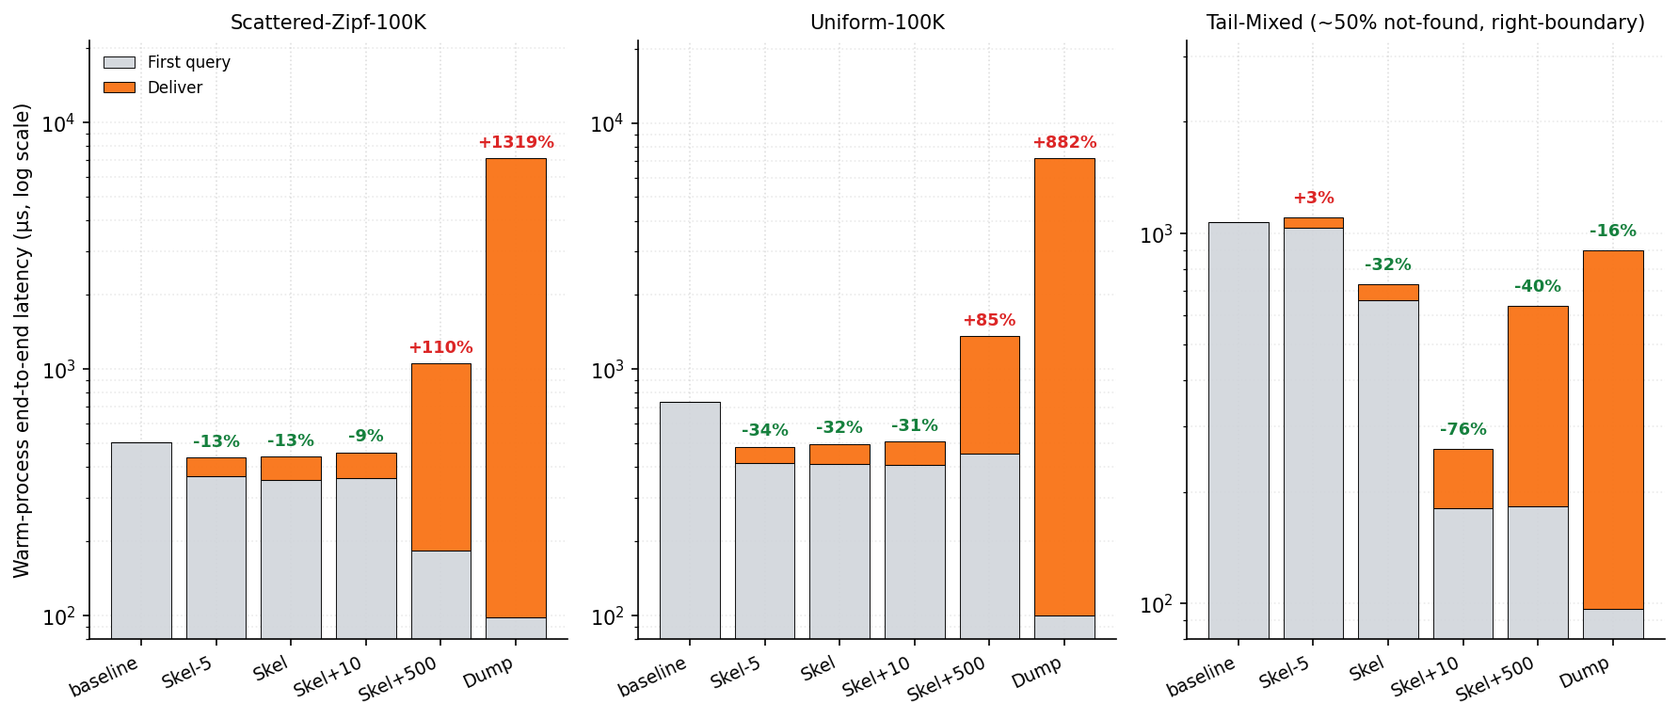
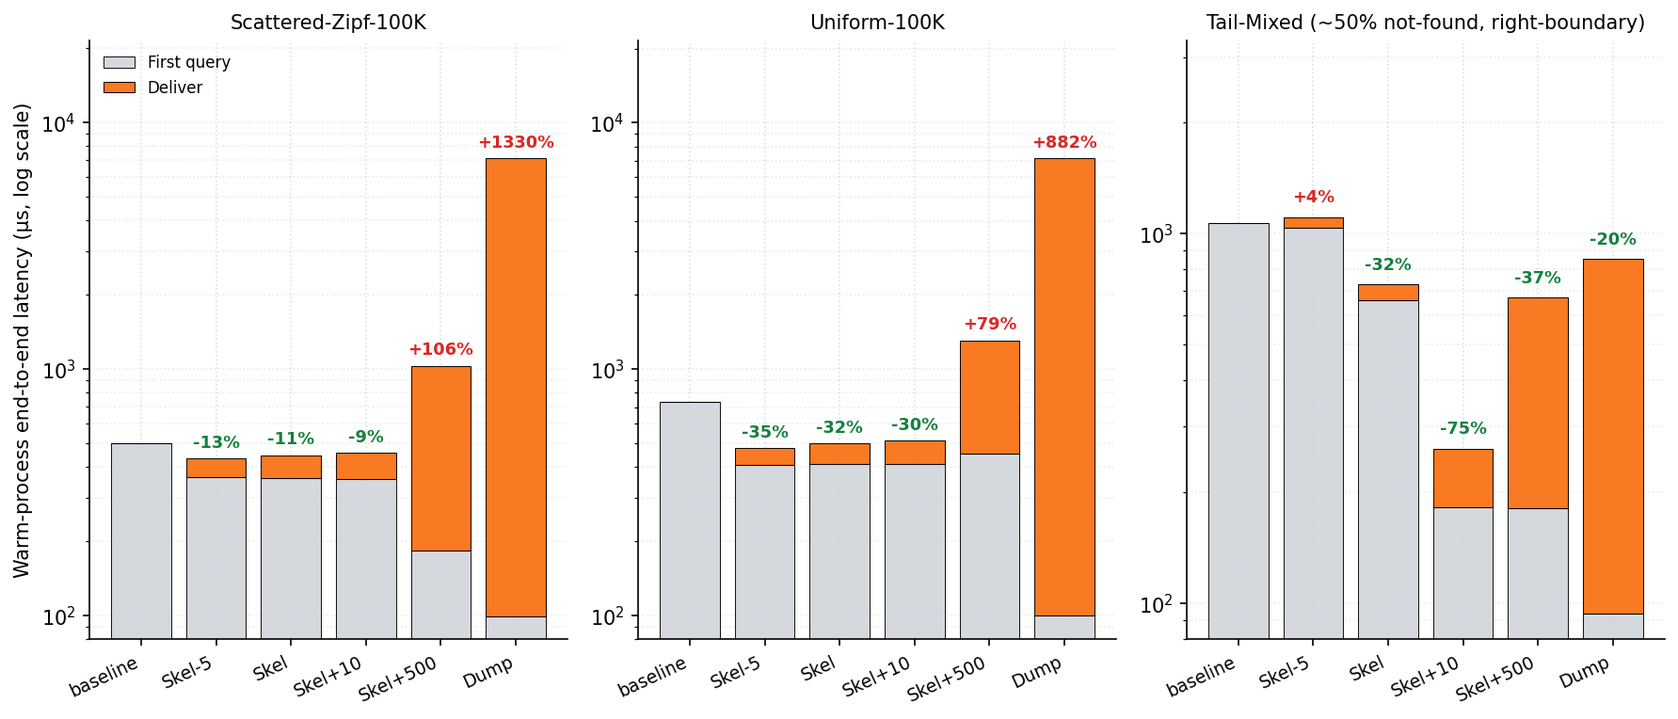
Paper: repoint the four result tables to the unified_v4 batch
Tables 5 (tab:e2e-ac), 6 (tab:ablation), 7 (tab:competitive) and 8
(tab:seeds) previously drew their cells from five separate batches across
two code versions, so their columns were not mutually comparable. All four
now read results/unified_v4, a single 10-seed run of one code version that
measures every arm the paper reports, including 2e_K10 and 2e_K500 under
the corrected (-count, pageno) tie-break.

Every changed cell was recomputed from unified_v4 keyed on
(workload, strategy, arm, metric) and matches what is now printed.
Notable movements:

  ablation Skel        first-query -44%, e2e -37%
  ablation leaf_freq   now a tie (CI [-14.3, +6.8] crosses zero)
  competitive Skel+10  -38% / -26% / -55%
  seeds Tail-Mixed     Skel+10 cross-seed -75%, Skel cross-seed -37%

Section 6.3 and 6.4 prose follows the tables. The Tail-Mixed Skel+10
bimodality is reproduced in the new batch: 6 seeds average -71%, 4 seeds
average -32%, overall -55%.

Figures 13 and 14 are regenerated from the same batch, so the stacked
absolute microseconds in Figure 14 now share a machine state with Table 5's
absolute columns. Under unified_v4 only one cell still splits between the
drawn bar height and the printed label (Scattered-Zipf-100K Skel-5, -14
against -13), down from three.

Three things deliberately stay on their own batches and continue to name
them in the text: the Section 6 layout comparison needs vacuum/ta,
layers_92, and the Tail-Hit control.
[…]

diff --git a/main.tex b/main.tex
@@ -83,7 +83,7 @@ Wang et al. \cite{Wang2018} measured over 50,000 function instances across AWS L
 
 Container-level cold-start optimization has advanced rapidly. The histogram-based prewarming policy of Shahrad et al. \cite{Shahrad2020} raises the fraction of invocations that land on a warm container, and Catalyzer \cite{Du2020} reaches sub-millisecond function startup through checkpoint/restore and the sfork primitive. Neither technique restores the OS page cache: a checkpoint does not carry file-backed pages, and prewarming keeps the runtime alive while memory is reclaimed. As these techniques succeed, the cold-start penalty that remains sits in the data path.
 
-That penalty is not small. On our reference database (Section~\ref{sec:refdb}), the first query after a cold OS page cache takes 503 to 1072 µs depending on the workload, against 1 to 3 µs once the cache is warm (Section~\ref{sec:workloads}), a slowdown of two to three orders of magnitude. The storage-layer penalty is therefore in the same sub-millisecond regime as container startup itself, so even an optimally warmed container leaves the data path as the dominant remaining cost.
+That penalty is not small. On our reference database (Section~\ref{sec:refdb}), the first query after a cold OS page cache takes 500 to 1067 µs depending on the workload, against 1 to 3 µs once the cache is warm (Section~\ref{sec:workloads}), a slowdown of two to three orders of magnitude. The storage-layer penalty is therefore in the same sub-millisecond regime as container startup itself, so even an optimally warmed container leaves the data path as the dominant remaining cost.
 
 The cost arises from a dependent fault chain. Each query walks the B+tree from root to leaf, and each missing page must be fetched before the next page address is known. On local NVMe each link costs microseconds. When SQLite is served from object storage over HTTP range requests ~\cite{SqliteWebVfs, Turbolite}, each link becomes a multi-millisecond GET and the same chain is amplified by orders of magnitude. This paper quantifies the chain at the local-storage tier and leaves the remote tier to future work (Section~\ref{sec:conclusion}).
 
@@ -164,7 +164,7 @@ Standard B+tree fanout makes interior pages 0.35\% of the file, yet every query 
 
 \subsection{Cold-Start Mechanics}\label{sec:coldstart-mechanics}
 
-With an empty OS page cache, the first query must fetch every page on its root-to-leaf path from disk, one dependent fault at a time, because each child pointer is unknown until its parent page is resident. On commodity NVMe each fault costs 5 to 100 µs, and the chain sums to the cold first-query latencies of 503 to 1072 µs reported in Section~\ref{sec:workloads}, two to three orders of magnitude above the warm case. The interior pages on that chain are few and known in advance (Section~\ref{sec:btree}), so a prefetch that makes them resident before the first query removes the interior faults. Whether this improves the end-to-end cold start depends on which pages are selected (Section~\ref{sec:strategy}) and on what the prefetch itself costs (Section~\ref{sec:methodology}).
+With an empty OS page cache, the first query must fetch every page on its root-to-leaf path from disk, one dependent fault at a time, because each child pointer is unknown until its parent page is resident. On commodity NVMe each fault costs 5 to 100 µs, and the chain sums to the cold first-query latencies of 500 to 1067 µs reported in Section~\ref{sec:workloads}, two to three orders of magnitude above the warm case. The interior pages on that chain are few and known in advance (Section~\ref{sec:btree}), so a prefetch that makes them resident before the first query removes the interior faults. Whether this improves the end-to-end cold start depends on which pages are selected (Section~\ref{sec:strategy}) and on what the prefetch itself costs (Section~\ref{sec:methodology}).
 
 \subsection{The Warm-Container, Cold-Data Measurement Model}\label{sec:measurement-model}
 
@@ -378,7 +378,7 @@ Three auxiliary workloads, all on \texttt{Default}, support specific controls. T
 
 The OpenWhisk deployment (Section~\ref{sec:setup-openwhisk}) additionally runs three native YCSB 0.17.0 traces over the full 600,000-key space: Scattered-Zipf-600K, Uniform-600K, and Hotspot-1\%-scattered, a workload-C read mix with Zipfian, uniform, and 1\% hotspot request distributions, the last with hot keys hashed across the physical key space. All three are pure-hit. Scattered-Zipf-600K and Uniform-600K are the external-validity counterparts of the controlled Scattered-Zipf-100K and Uniform-100K. Hotspot-1\%-scattered is a native hotspot regime with no controlled counterpart, and is not equated with Tail-Mixed. These three are used only in Section~\ref{sec:eval-portability}, which also carries Tail-Mixed and Tail-Hit across both platforms.
 
-Under \texttt{Default}, the median cold first-query latencies are 503~\textmu s for Scattered-Zipf-100K, 733~\textmu s for Uniform-100K, and 1072~\textmu s for Tail-Mixed, against 1 to 3 µs with a warm cache. These cold values are the denominators for every improvement reported in Section~\ref{sec:evaluation}. The workload traces are published with the artifact, checksummed, together with the generator that drives the 10-seed analysis of Section~\ref{sec:stats}.
+Under \texttt{Default}, the median cold first-query latencies are 500~\textmu s for Scattered-Zipf-100K, 732~\textmu s for Uniform-100K, and 1067~\textmu s for Tail-Mixed, against 1 to 3 µs with a warm cache. These cold values are the denominators for every improvement reported in Section~\ref{sec:evaluation}. The workload traces are published with the artifact, checksummed, together with the generator that drives the 10-seed analysis of Section~\ref{sec:stats}.
 
 \subsection{OpenWhisk Portability Deployment}\label{sec:setup-openwhisk}
 
@@ -392,11 +392,11 @@ Our evaluation answers three questions. \textbf{RQ1}: does a lower first-query l
 
 \subsection{First-Query Gains and Workload-Dependent Ceilings}\label{sec:eval-fq}
 
-We first report first-query latency alone, before charging preprocessing in Section~\ref{sec:eval-tradeoff}. Against the cold baselines of Section~\ref{sec:workloads} (503, 733, and 1072 \textmu s), Dump reaches the lowest first-query latency on every workload: 98 \textmu s on Scattered-Zipf-100K ($-80\%$), 100 \textmu s on Uniform-100K ($-86\%$), and 96 \textmu s on Tail-Mixed ($-91\%$). Judged by this metric alone, Dump wins outright. The targeted strategies reach $-27\%$ to $-83\%$, with a ceiling that depends on the workload (Table~\ref{tab:ceiling} and Figure~\ref{fig:firstq-bars}).
+We first report first-query latency alone, before charging preprocessing in Section~\ref{sec:eval-tradeoff}. Against the cold baselines of Section~\ref{sec:workloads} (500, 732, and 1067 \textmu s), Dump reaches the lowest first-query latency on every workload: 99 \textmu s on Scattered-Zipf-100K ($-80\%$), 100 \textmu s on Uniform-100K ($-86\%$), and 94 \textmu s on Tail-Mixed ($-91\%$). Judged by this metric alone, Dump wins outright. The targeted strategies reach $-27\%$ to $-83\%$, with a ceiling that depends on the workload (Table~\ref{tab:ceiling} and Figure~\ref{fig:firstq-bars}).
 
-The ceiling has a structural explanation. At first-query time every page is cold, and interior prefetching removes the interior faults but leaves the first leaf fault. On Scattered-Zipf-100K the interior skeleton alone captures most of the benefit ($-27\%$ to $-29\%$), and adding leaves yields diminishing returns: \texttt{Skel+500} reaches $-64\%$ and Dump $-80\%$. On Uniform-100K there is no hot set, every query hits a cold leaf, and interior-only prefetching is capped at $-44\%$, with only the full dump going further, to $-86\%$. On Tail-Mixed the interior-only ceiling is $-38\%$, but \texttt{Skel+10} reaches $-83\%$ because about half the queries are not-found probes that descend to the same rightmost leaf, which \texttt{Skel+10} includes. This is a property of the key range rather than of tail reads in general, as Section~\ref{sec:eval-attribution} confirms with a pure-hit control.
+The ceiling has a structural explanation. At first-query time every page is cold, and interior prefetching removes the interior faults but leaves the first leaf fault. On Scattered-Zipf-100K the interior skeleton alone captures most of the benefit ($-27\%$ to $-28\%$), and adding leaves yields diminishing returns: \texttt{Skel+500} reaches $-64\%$ and Dump $-80\%$. On Uniform-100K there is no hot set, every query hits a cold leaf, and interior-only prefetching is capped at $-44\%$, with only the full dump going further, to $-86\%$. On Tail-Mixed the interior-only ceiling is $-38\%$, but \texttt{Skel+10} reaches $-83\%$ because about half the queries are not-found probes that descend to the same rightmost leaf, which \texttt{Skel+10} includes. This is a property of the key range rather than of tail reads in general, as Section~\ref{sec:eval-attribution} confirms with a pure-hit control.
 
-The offset-ordered structural strategy \texttt{Skel-N} depends on both workload and layout. On Scattered-Zipf-100K and Uniform-100K the first five interior pages already reach the plateau ($-27\%$ to $-29\%$ and $-44\%$), and further interiors add nothing. Tail-Mixed needs nearly all 92, because the interiors covering its high-key range sit mid-file and offset-order selection reaches them only when N spans the whole set. A single page ($N = 1$) is counter-productive on Scattered-Zipf-100K, where \texttt{madvise} dispatch overhead exceeds the coverage gain and first-query latency is $31\%$ worse than the same-batch baseline, and only marginally helpful on the other two workloads. The shape of the N-sweep is consistent across the hotspot variants in our artifact.
+The offset-ordered structural strategy \texttt{Skel-N} depends on both workload and layout. On Scattered-Zipf-100K and Uniform-100K the first five interior pages already reach the plateau ($-27\%$ to $-28\%$ and $-44\%$), and further interiors add nothing. Tail-Mixed needs nearly all 92, because the interiors covering its high-key range sit mid-file and offset-order selection reaches them only when N spans the whole set. A single page ($N = 1$) is counter-productive on Scattered-Zipf-100K, where \texttt{madvise} dispatch overhead exceeds the coverage gain and first-query latency is $31\%$ worse than the same-batch baseline, and only marginally helpful on the other two workloads. The shape of the N-sweep is consistent across the hotspot variants in our artifact.
 
 Figure~\ref{fig:firstq-bars} plots each strategy's paired first-query reduction against its same-batch baseline. \texttt{Dump} leads on every workload, and \texttt{Skel+10} on Tail-Mixed is the largest targeted reduction. Section~\ref{sec:eval-tradeoff} revisits this ranking with end-to-end accounting.
 
@@ -411,7 +411,7 @@ Figure~\ref{fig:firstq-bars} plots each strategy's paired first-query reduction 
 \toprule
 \textbf{Workload} & \textbf{Ceiling} & \textbf{With hot leaves / full dump} \\
 \midrule
-Scattered-Zipf-100K & $-29\%$ & \texttt{Skel+500}: $-64\%$, \texttt{Dump}: $-80\%$ \\
+Scattered-Zipf-100K & $-28\%$ & \texttt{Skel+500}: $-64\%$, \texttt{Dump}: $-80\%$ \\
 Uniform-100K        & $-44\%$ & \texttt{Dump}: $-86\%$ \\
 Tail-Mixed          & $-38\%$ & \texttt{Skel+10}: $-83\%$, \texttt{Dump}: $-91\%$ \\
 \bottomrule
@@ -430,11 +430,11 @@ Tail-Mixed          & $-38\%$ & \texttt{Skel+10}: $-83\%$, \texttt{Dump}: $-91\%
 
 First-query latency excludes the cost of the prefetch itself. Table~\ref{tab:overhead} decomposes that cost per strategy. The cold-open cost $t_\text{open}$ is a per-layout constant, about 179 \textmu s in the main batch and independent of strategy and workload. Because the two deployment models of Section ~\ref{sec:cost-model} differ only by $t_{\text{open}}$, it shifts both models' zero points equally ($e2e_{\text{ext}} - (\text{baseline} + t_{\text{open}}) = e2e_{\text{warm}} - \text{baseline}$) and never decides a within-model comparison. The delivery cost $t_\text{deliver}$ scales with the prefetch set: 68 to 124 \textmu s for \texttt{Skel-5}, \texttt{Skel}, and \texttt{Skel+10}, 0.5 to 0.85 ms for \texttt{Skel+500}, and 0.8 to 7 ms for \texttt{Dump}, which pays about 7 ms on the two 100K workloads and 0.80 ms on Tail-Mixed.
 
-Charging $t_\text{deliver}$ reverses the ranking of Section~\ref{sec:eval-fq}. Table~\ref{tab:e2e-ac} gives end-to-end latency under both models for the main batch, and Figure~\ref{fig:e2e-stacked} stacks first query and delivery for the warm-process model. \texttt{Dump}, the first-query winner, is the end-to-end loser on the broad workloads: on Scattered-Zipf-100K its 7 ms delivery dwarfs its 405 \textmu s first-query gain, regressing the warm-process cold start by $+1319\%$ (7140 versus 503 \textmu s) and the external-warmer cold start by $+1355\%$, and on Uniform-100K it regresses by $+882\%$. Tail-Mixed, whose working set is only 1.8 MB, is the sole exception at $-16\%$ (cross-seed $-7\%$, robust). Over-provisioning leaves fails the same way in miniature: \texttt{Skel+500} regresses by $+110\%$ and $+85\%$ on the two broad workloads.
+Charging $t_\text{deliver}$ reverses the ranking of Section~\ref{sec:eval-fq}. Table~\ref{tab:e2e-ac} gives end-to-end latency under both models for the main batch, and Figure~\ref{fig:e2e-stacked} stacks first query and delivery for the warm-process model. \texttt{Dump}, the first-query winner, is the end-to-end loser on the broad workloads: on Scattered-Zipf-100K its 7 ms delivery dwarfs its 401 \textmu s first-query gain, regressing the warm-process cold start by $+1330\%$ (7148 versus 500 \textmu s) and the external-warmer cold start by $+1366\%$, and on Uniform-100K it regresses by $+882\%$. Tail-Mixed, whose working set is only 1.8 MB, is the sole exception at $-20\%$ (cross-seed $-10\%$, robust). Over-provisioning leaves fails the same way in miniature: \texttt{Skel+500} regresses by $+106\%$ and $+79\%$ on the two broad workloads.
 
-The frugal strategies \texttt{Skel} and \texttt{Skel+10} improve warm-process latency on all three workloads. The robust general result is \texttt{Skel} at roughly $25\%$ to $30\%$ across the pure-hit workloads (cross-seed, Section~\ref{sec:eval-robustness}). Tail-Mixed \texttt{Skel+10} shows a larger single-instantiation $-76\%$ (1072 to 260 \textmu s), but Section~\ref{sec:eval-attribution} shows this is driven by the not-found rightmost-leaf concentration and is bimodal across seeds with a mean of $-55\%$. The single-instantiation wins of \texttt{Skel-5} do not survive cross-seed validation: tie on Scattered-Zipf-100K, directional toward regression on Uniform-100K, and robustly worse on Tail-Mixed (Table~\ref{tab:e2e-ac}).
+The frugal strategies \texttt{Skel} and \texttt{Skel+10} improve warm-process latency on all three workloads. The robust general result is \texttt{Skel} at roughly $25\%$ to $30\%$ across the pure-hit workloads (cross-seed, Section~\ref{sec:eval-robustness}). Tail-Mixed \texttt{Skel+10} shows a larger single-instantiation $-75\%$ (1067 to 262 \textmu s), but Section~\ref{sec:eval-attribution} shows this is driven by the not-found rightmost-leaf concentration and is bimodal across seeds with a mean of $-55\%$. The single-instantiation wins of \texttt{Skel-5} do not survive cross-seed validation: tie on Scattered-Zipf-100K, directional toward regression on Uniform-100K, and robustly worse on Tail-Mixed (Table~\ref{tab:e2e-ac}).
 
-The deployment model decides whether prefetching pays at all. In the external-warmer model the cold open consumes the benefit on the fast workloads (\texttt{Skel} on Scattered-Zipf-100K: $+23\%$), whereas in the warm-process model the same strategies win consistently. Three conclusions follow. Minimizing first-query latency does not guarantee a faster cold start, because delivery cost can dominate the critical path. The deployment model determines the verdict, and the warm-process model we advocate is where targeted prefetch wins. The open cost is a deployment constant rather than a prefetch tax: it shifts the zero point between models but never their internal ranking.
+The deployment model decides whether prefetching pays at all. In the external-warmer model the cold open consumes the benefit on the fast workloads (\texttt{Skel} on Scattered-Zipf-100K: $+25\%$), whereas in the warm-process model the same strategies win consistently. Three conclusions follow. Minimizing first-query latency does not guarantee a faster cold start, because delivery cost can dominate the critical path. The deployment model determines the verdict, and the warm-process model we advocate is where targeted prefetch wins. The open cost is a deployment constant rather than a prefetch tax: it shifts the zero point between models but never their internal ranking.
 
 \begin{table}[htbp]
 \centering
@@ -462,20 +462,20 @@ The deployment model decides whether prefetching pays at all. In the external-wa
 \newcolumntype{L}[1]{>{\hsize=#1\hsize\raggedright\arraybackslash}X}
 \newcolumntype{C}[1]{>{\hsize=#1\hsize\centering\arraybackslash}X}
 \newcolumntype{R}[1]{>{\hsize=#1\hsize\raggedleft\arraybackslash}X}
-\caption{End-to-end latency under the external-warmer (\texttt{e2e\_ext}) and warm-process (\texttt{e2e\_warm}) models, main batch, \texttt{Default} layout, asynchronous delivery. Every value is from one machine state under the corrected tie-break. \texttt{Skel+10} and \texttt{Skel+500} are plotted in Figure~\ref{fig:e2e-stacked}. Percentages are single-instantiation paired improvements, and verdicts are the cross-seed classifications of Section~\ref{sec:eval-robustness}.}
+\caption{End-to-end latency under the external-warmer (\texttt{e2e\_ext}) and warm-process (\texttt{e2e\_warm}) models, main batch, \texttt{Default} layout, asynchronous delivery. Every value in this table and in Tables~\ref{tab:ablation},~\ref{tab:competitive} and~\ref{tab:seeds} comes from one 10-seed batch measured in a single contiguous window under the corrected tie-break. The $\text{e2e}_{\text{ext}}$ column adds a cold open whose median varies by about 30~\textmu s with the prefetched set and across batches, so its absolute values carry that uncontrolled term. \texttt{Skel+10} and \texttt{Skel+500} are plotted in Figure~\ref{fig:e2e-stacked}. Percentages are single-instantiation paired improvements, and verdicts are the cross-seed classifications of Section~\ref{sec:eval-robustness}.}
 \begin{tabularx}{\textwidth}{L{0.5} *{4}{C{0.65}} L{2.5}}
 \toprule
 \multirow{2}{*}{\textbf{Strategy}} & 
-\multicolumn{2}{c}{\shortstack{\textbf{Scattered-Zipf-100K}\\(baseline 503\,\textmu s)}} & 
-\multicolumn{2}{c}{\shortstack{\textbf{Tail-Mixed}\\(baseline 1072\,\textmu s)}} & 
+\multicolumn{2}{c}{\shortstack{\textbf{Scattered-Zipf-100K}\\(baseline 500\,\textmu s)}} & 
+\multicolumn{2}{c}{\shortstack{\textbf{Tail-Mixed}\\(baseline 1067\,\textmu s)}} & 
 \multirow{2}{*}{\textbf{Cross-seed verdict}} \\
 \cmidrule(lr){2-3} \cmidrule(lr){4-5}
 & $\text{e2e}_{\text{ext}}$ & $\text{e2e}_{\text{warm}}$ & $\text{e2e}_{\text{ext}}$ & $\text{e2e}_{\text{warm}}$ & \\
 \midrule
-Baseline        & 503            & 503            & 1072          & 1072          & n/a \\
-\texttt{Skel-5} & 617 (+23\%)   & 435 ($-$13\%)  & 1286 (+20\%)  & 1107 (+3\%)   & Scattered-Zipf-100K: \textit{tie}, Tail-Mixed: \textit{robust} (worse) \\
-\texttt{Skel}   & 620 (+23\%)   & 439 ($-$13\%)  & 907 ($-$15\%) & 729 ($-$32\%) & Scattered-Zipf-100K: \textit{robust} ($-$25\%), Tail-Mixed: \textit{robust} ($-$36\%) \\
-\texttt{Dump}   & 7319 (+1355\%) & 7140 (+1319\%) & 1074 (+0\%)   & 897 ($-$16\%) & Scattered-Zipf-100K: \textit{robust} (worse), Tail-Mixed: \textit{robust} ($-$7\%) \\
+Baseline        & 500            & 500            & 1067          & 1067          & n/a \\
+\texttt{Skel-5} & 581 (+16\%)   & 433 ($-$13\%)  & 1291 (+21\%)  & 1108 (+4\%)   & Scattered-Zipf-100K: \textit{tie}, Tail-Mixed: \textit{robust} (worse) \\
+\texttt{Skel}   & 624 (+25\%)   & 446 ($-$11\%)  & 909 ($-$15\%) & 728 ($-$32\%) & Scattered-Zipf-100K: \textit{robust} ($-$27\%), Tail-Mixed: \textit{robust} ($-$37\%) \\
+\texttt{Dump}   & 7325 (+1366\%) & 7148 (+1330\%) & 1000 ($-$6\%)  & 856 ($-$20\%) & Scattered-Zipf-100K: \textit{robust} (worse), Tail-Mixed: \textit{robust} ($-$10\%) \\
 \bottomrule
 \end{tabularx}
 \label{tab:e2e-ac}
@@ -484,7 +484,7 @@ Baseline        & 503            & 503            & 1072          & 1072        
 \begin{figure*}[htbp]
 \centering
 \includegraphics[width=\textwidth]{figures/14_strategy_endtoend_stacked.png}
-\caption{Warm-process end-to-end decomposition, same batch as Figure~\ref{fig:firstq-bars}. Each bar stacks first query and delivery, so its height is \texttt{e2e\_warm}. Labels are paired changes versus the dashed same-workload baseline. \texttt{Dump} regresses by $+1319\%$ and $+882\%$ on the broad workloads and is the exception on Tail-Mixed ($-16\%$), \texttt{Skel+500} regresses by $+110\%$ and $+85\%$, and \texttt{Skel} sits below baseline on all three. The \texttt{Skel-5} improvements are single-instantiation only (Table~\ref{tab:e2e-ac}).}
+\caption{Warm-process end-to-end decomposition, same batch as Figure~\ref{fig:firstq-bars}. Each bar stacks first query and delivery, so its height is \texttt{e2e\_warm}. Labels are paired changes versus the dashed same-workload baseline. \texttt{Dump} regresses by $+1330\%$ and $+882\%$ on the broad workloads and is the exception on Tail-Mixed ($-20\%$), \texttt{Skel+500} regresses by $+106\%$ and $+79\%$, and \texttt{Skel} sits below baseline on all three. The \texttt{Skel-5} improvements are single-instantiation only (Table~\ref{tab:e2e-ac}).}
 \label{fig:e2e-stacked}
 \end{figure*}
 
@@ -492,11 +492,11 @@ Baseline        & 503            & 503            & 1072          & 1072        
 
 \textbf{Ablation of the two levers.} The large Tail-Mixed result of Section~\ref{sec:eval-tradeoff} combines page-type and access-frequency selection. We separate them with an exact decomposition of the \texttt{Skel+10} set into four arms: \texttt{Skel} (resident interiors only), \texttt{leaf\_freq\_K10} (the top-10 leaves by access count only), \texttt{leaf\_rand\_K10} (10 leaves of the same type drawn uniformly at random, a control that matches page count and type and differs only in selection criterion), and \texttt{Skel+10} (the union of the first two). This attribution required fixing an estimator artifact. Our original leaf ranking broke frequency ties by first-seen order, which on a tied-count workload favored the earliest-observed leaves, the ones the measured first query touches, so they leaked into the set. We replaced it with a trace-order-independent tie-break (frequency descending, then page number ascending) and re-measured every affected cell in one same-batch 10-seed rerun with paired baselines. Numbers in this subsection are from that rerun unless stated otherwise, so they are cross-seed means and differ from the single-instantiation values of Sections~\ref{sec:eval-fq} and~\ref{sec:eval-tradeoff}.
 
-Table~\ref{tab:ablation} gives the corrected ablation on Tail-Mixed. \texttt{Skel} alone is $-43\%$ first-query and $-36\%$ end-to-end and is the only robust contributor. \texttt{leaf\_rand\_K10} is net-harmful end-to-end ($+7\%$): extra leaves without a hotspot cost delivery for no coverage. \texttt{leaf\_freq\_K10} alone is $-3\%$ end-to-end with a CI crossing zero, a tie, and its pre-fix $-40\%$ was almost entirely first-op leakage. \texttt{Skel+10} reaches $-63\%$ first-query and $-55\%$ end-to-end but is bimodal across seeds, as explained below. The hierarchy is therefore asymmetric: interior coverage is the robust lever and the prerequisite for any leaf benefit, since a leaf is useless while its path is uncached, and leaf frequency is a conditional add-on. The 10-seed sweep of Section~\ref{sec:eval-robustness} characterizes the other workloads: on Uniform-100K the entire gain is the skeleton (\texttt{Skel} $-25\%$), and on Scattered-Zipf-100K the frequency lever adds a robust bonus beyond it (\texttt{Skel} $-25\%$ to \texttt{Skel+10} $-36\%$), consistent with its Zipfian skew.
+Table~\ref{tab:ablation} gives the corrected ablation on Tail-Mixed. \texttt{Skel} alone is $-44\%$ first-query and $-37\%$ end-to-end and is the only robust contributor. \texttt{leaf\_rand\_K10} is net-harmful end-to-end ($+6\%$): extra leaves without a hotspot cost delivery for no coverage. \texttt{leaf\_freq\_K10} alone is $-4\%$ end-to-end with a CI crossing zero, a tie, and its pre-fix $-40\%$ was almost entirely first-op leakage. \texttt{Skel+10} reaches $-64\%$ first-query and $-55\%$ end-to-end but is bimodal across seeds, as explained below. The hierarchy is therefore asymmetric: interior coverage is the robust lever and the prerequisite for any leaf benefit, since a leaf is useless while its path is uncached, and leaf frequency is a conditional add-on. The 10-seed sweep of Section~\ref{sec:eval-robustness} characterizes the other workloads: on Uniform-100K the entire gain is the skeleton (\texttt{Skel} $-26\%$), and on Scattered-Zipf-100K the frequency lever adds a robust bonus beyond it (\texttt{Skel} $-27\%$ to \texttt{Skel+10} $-38\%$), consistent with its Zipfian skew.
 
-\textbf{Why the Tail-Mixed result is narrow.} About half of Tail-Mixed's lookups are not-found probes, and every one descends the right edge to the same rightmost leaf, an extreme key-range-induced hotspot. The corrected \texttt{Skel+10} result is accordingly bimodal: about $-70\%$ when the measured first query is itself a not-found probe and about $-31\%$, the interior-skeleton regime, when it is a hit, for a mean of $-55\%$. On the matched pure-hit control Tail-Hit, \texttt{Skel+10} returns to about $-27\%$, statistically matching \texttt{Skel} ($-28.5\%$) and a footprint-matched frequency dump ($-30.6\%$). Once the not-found concentration is removed, leaf frequency adds nothing beyond the skeleton. We report the Tail-Mixed number as a scoped, mechanism-specific result.
+\textbf{Why the Tail-Mixed result is narrow.} About half of Tail-Mixed's lookups are not-found probes, and every one descends the right edge to the same rightmost leaf, an extreme key-range-induced hotspot. The corrected \texttt{Skel+10} result is accordingly bimodal: about $-71\%$ when the measured first query is itself a not-found probe and about $-32\%$, the interior-skeleton regime, when it is a hit, for a mean of $-55\%$. On the matched pure-hit control Tail-Hit, \texttt{Skel+10} returns to about $-27\%$, statistically matching \texttt{Skel} ($-28.5\%$) and a footprint-matched frequency dump ($-30.6\%$). Once the not-found concentration is removed, leaf frequency adds nothing beyond the skeleton. We report the Tail-Mixed number as a scoped, mechanism-specific result.
 
-\textbf{Competitive baselines.} To test whether \texttt{Dump} is a weak baseline, we port the selection cores of two prior systems (Section~\ref{sec:buffer-warming}) onto our substrate and charge them the same way. \texttt{Dump} is the full-working-set core of InnoDB's buffer-pool dump and load. \texttt{Dump-N} is a frequency-ranked partial dump in the spirit of Pre-Buffer: it replays each query's root-to-leaf traversal, counts page visits, and dumps the top $N$ pages for $N$ in {14, 28, 100, 500, full}. We reproduce only the selection, not the off-critical-path orchestration of either system. Table~\ref{tab:competitive} reports warm-process end-to-end results, and three findings follow. End-to-end latency worsens monotonically with dump footprint: the full dump regresses by $+762\%$ on Scattered-Zipf-100K and $+730\%$ on Uniform-100K (cross-seed, versus $+1319\%$ single-instantiation in Table~\ref{tab:e2e-ac}), so the problem is delivery volume rather than the dump mechanism. At matched footprint a small ranked dump ties Skel+10 on the broad workloads (Scattered-Zipf-100K $-33\%$ versus $-38\%$, Uniform-100K $-27\%$ versus $-24\%$, overlapping CIs). On Tail-Mixed the corrected comparison is a tie as well ($-55\%$ versus $-55\%$), and the pre-fix gap of $-72\%$ versus $-57\%$ was first-op leakage. Explicit page typing and frequency ranking recover a similar page set, so page-type knowledge earns its place as an interpretable coverage guarantee rather than as a faster selector.
+\textbf{Competitive baselines.} To test whether \texttt{Dump} is a weak baseline, we port the selection cores of two prior systems (Section~\ref{sec:buffer-warming}) onto our substrate and charge them the same way. \texttt{Dump} is the full-working-set core of InnoDB's buffer-pool dump and load. \texttt{Dump-N} is a frequency-ranked partial dump in the spirit of Pre-Buffer: it replays each query's root-to-leaf traversal, counts page visits, and dumps the top $N$ pages for $N$ in {14, 28, 100, 500, full}. We reproduce only the selection, not the off-critical-path orchestration of either system. Table~\ref{tab:competitive} reports warm-process end-to-end results, and three findings follow. End-to-end latency worsens monotonically with dump footprint: the full dump regresses by $+767\%$ on Scattered-Zipf-100K and $+722\%$ on Uniform-100K (cross-seed, versus $+1330\%$ single-instantiation in Table~\ref{tab:e2e-ac}), so the problem is delivery volume rather than the dump mechanism. At matched footprint a small ranked dump ties Skel+10 on the broad workloads (Scattered-Zipf-100K $-31\%$ versus $-38\%$, Uniform-100K $-27\%$ versus $-26\%$, overlapping CIs). On Tail-Mixed the corrected comparison is a tie as well ($-55\%$ versus $-55\%$), and the pre-fix gap of $-72\%$ versus $-57\%$ was first-op leakage. Explicit page typing and frequency ranking recover a similar page set, so page-type knowledge earns its place as an interpretable coverage guarantee rather than as a faster selector.
 
 \textbf{Delivery order.} libprefetch's contribution is ordering at a fixed set (Section~\ref{sec:os-prefetch}). We deliver the same 18 MB working set as \texttt{Dump} in ascending file-offset order (\texttt{LP-sorted}) and shuffled (\texttt{LP-shuf}). On NVMe the ordering effect survives only in the synchronous delivery term, where \texttt{pread} is $10$ to $16 \times$ slower shuffled than sorted ($15.6\times$, $15.1\times$, and $10.5\times$ on the three workloads), and first-query latency is unchanged because both arms deliver the same pages. Asynchronous \texttt{fadvise} dispatch shows no ordering effect (delivery ratio about 1.0). Delivery scheduling is therefore orthogonal to set selection.
 
@@ -511,10 +511,10 @@ Table~\ref{tab:ablation} gives the corrected ablation on Tail-Mixed. \texttt{Ske
 \toprule
 \textbf{Arm} & \textbf{Pages} & \textbf{First-query $\Delta\%$} & \textbf{$\text{e2e}_{\text{warm}}$ $\Delta\%$} \\
 \midrule
-\texttt{Skel} & 4 & $-43\%$ $[-46, -41]$ & $-36\%$ (robust) \\
-\texttt{leaf\_rand\_K10} & 10 & $-1\%$ $[-2, +1]$ & $+7\%$ (worse) \\
-\texttt{leaf\_freq\_K10} & 10 & $-11\%$ $[-22, 0]$ & $-3\%$ (tie) \\
-\texttt{Skel+10} & 14 & $-63\%$ $[-75, -51]$ & $-55\%$ (bimodal) \\
+\texttt{Skel} & 4 & $-44\%$ $[-47, -41]$ & $-37\%$ (robust) \\
+\texttt{leaf\_rand\_K10} & 10 & $-2\%$ $[-4.0, -0.1]$ & $+6\%$ (worse) \\
+\texttt{leaf\_freq\_K10} & 10 & $-12\%$ $[-22, -1]$ & $-4\%$ (tie) \\
+\texttt{Skel+10} & 14 & $-64\%$ $[-76, -52]$ & $-55\%$ (bimodal) \\
 \bottomrule
 \end{tabular}
 \label{tab:ablation}
@@ -522,15 +522,15 @@ Table~\ref{tab:ablation} gives the corrected ablation on Tail-Mixed. \texttt{Ske
 
 \begin{table*}[htbp]
 \centering
-\caption{Frequency-ranked partial dump versus targeted prefetch, warm-process end-to-end, 10-seed means with $95\%$ bootstrap CIs. The Scattered-Zipf-100K and Uniform-100K columns are from the prior-art batch, whose \texttt{Skel+10} values the corrected rerun reproduces within noise. The \texttt{Tail-Mixed Skel+10}, \texttt{Dump-14}, and \texttt{Dump} values are from the corrected rerun. \texttt{Dump-500} was not re-measured.}
+\caption{Frequency-ranked partial dump versus targeted prefetch, warm-process end-to-end, 10-seed means with $95\%$ bootstrap CIs. All twelve cells are from the same 10-seed batch as Tables~\ref{tab:e2e-ac},~\ref{tab:ablation} and~\ref{tab:seeds}, so the columns are mutually comparable.}
 \begin{tabular}{l l r r r}
 \toprule
 \textbf{Arm} & \textbf{Footprint} & \textbf{Scattered-Zipf-100K} & \textbf{Uniform-100K} & \textbf{Tail-Mixed} \\
 \midrule
-\texttt{Skel+10} (targeted) & 14--28 pages & $-38\%$ $[-53, -25]$ & $-24\%$ $[-31, -12]$ & $-55\%$ $[-67, -42]$ \\
-\texttt{Dump-14} (ranked) & 14 pages & $-33\%$ $[-43, -24]$ & $-27\%$ $[-34, -16]$ & $-55\%$ $[-67, -43]$ \\
-\texttt{Dump-500} (ranked) & 500 pages & $+81\%$ $[+34, +151]$ & $+44\%$ $[+28, +60]$ & $-13\%$ $[-17, -8]$ \\
-\texttt{Dump} (full dump) & $\sim$4400 pages & $+762\%$ $[+674, +899]$ & $+730\%$ $[+644, +848]$ & $-7\%$ $[-12, -2]$ \\
+\texttt{Skel+10} (targeted) & 14--28 pages & $-38\%$ $[-52, -24]$ & $-26\%$ $[-32, -17]$ & $-55\%$ $[-68, -43]$ \\
+\texttt{Dump-14} (ranked) & 14 pages & $-31\%$ $[-42, -22]$ & $-27\%$ $[-34, -17]$ & $-55\%$ $[-67, -43]$ \\
+\texttt{Dump-500} (ranked) & 500 pages & $+83\%$ $[+35, +155]$ & $+44\%$ $[+26, +60]$ & $-9\%$ $[-13, -5]$ \\
+\texttt{Dump} (full dump) & $\sim$4400 pages & $+767\%$ $[+677, +903]$ & $+722\%$ $[+641, +827]$ & $-10\%$ $[-14, -5]$ \\
 \bottomrule
 \end{tabular}
 \label{tab:competitive}
@@ -540,7 +540,7 @@ Table~\ref{tab:ablation} gives the corrected ablation on Tail-Mixed. \texttt{Ske
 
 We test the headline conclusions along six axes, each on its own batch, so comparisons are within-axis and verdicts use the classifications of Section~\ref{sec:stats}.
 
-\textbf{Workload instantiation.} Table~\ref{tab:seeds} reports cross-seed warm-process improvements from the 10-seed sweep. The robust general result is the interior skeleton: \texttt{Skel} improves warm-process latency by $-25\%$ on Scattered-Zipf-100K, $-25\%$ on Uniform-100K, and $-28.5\%$ on Tail-Hit, all with CIs excluding zero. The larger $-36\%$ figures belong to Scattered-Zipf-100K \texttt{Skel+10}, a skew bonus, and to \texttt{Tail-Mixed Skel}, inflated by the not-found hotspot. \texttt{Tail-Mixed Skel+10} is $-55\%$ but bimodal (Section~\ref{sec:eval-attribution}). \texttt{Skel-5} does not survive: tie on Scattered-Zipf-100K ($-5\%$, 6 of 10 seeds) and directional toward regression on Uniform-100K, where 8 of 10 seeds worsen (median $+5\%$) and two strongly improving seeds pull the mean to $-1\%$. Structural prefetching without access observation is unreliable. The sweep also shows why single instantiations mislead: the main batch drew a Scattered-Zipf-100K instance with an unusually cheap first query (about 500 \textmu s against a cross-seed typical 900 \textmu s), so its \texttt{Skel+10} estimate of $-9\%$ understates the cross-seed $-36\%$, and it overstated Uniform-100K \texttt{Skel-5} at $-34\%$ against a cross-seed $-1\%$.
+\textbf{Workload instantiation.} Table~\ref{tab:seeds} reports cross-seed warm-process improvements from the 10-seed sweep. The robust general result is the interior skeleton: \texttt{Skel} improves warm-process latency by $-27\%$ on Scattered-Zipf-100K, $-26\%$ on Uniform-100K, and $-28.5\%$ on Tail-Hit, all with CIs excluding zero. The larger figures belong to Scattered-Zipf-100K \texttt{Skel+10} at $-38\%$, a skew bonus, and to \texttt{Tail-Mixed Skel} at $-37\%$, inflated by the not-found hotspot. \texttt{Tail-Mixed Skel+10} is $-55\%$ but bimodal (Section~\ref{sec:eval-attribution}). \texttt{Skel-5} does not survive: tie on Scattered-Zipf-100K ($-5\%$, 6 of 10 seeds) and directional toward regression on Uniform-100K, where 8 of 10 seeds worsen (median $+4\%$) and two strongly improving seeds pull the mean to $-2\%$. Structural prefetching without access observation is unreliable. The sweep also shows why single instantiations mislead: the main batch drew a Scattered-Zipf-100K instance with an unusually cheap first query (500 \textmu s against a cross-seed median of 886 \textmu s), so its \texttt{Skel+10} estimate of $-9\%$ understates the cross-seed $-38\%$, and it overstated Uniform-100K \texttt{Skel-5} at $-35\%$ against a cross-seed $-2\%$.
 
 \textbf{Memory pressure.} Serverless platforms cap per-function memory through cgroup \texttt{ MemoryMax}. We sweep the cap from 16 MB to 6 MB, $0.92\times$ to $0.35\times$ the working set of the two 100K workloads (Figure~\ref{fig:ram}). The five targeted strategies, with sets of 20 KB to 2 MB, keep $100\%$ delivery and flat first-query latency at every cap, because their sets are far below the cap. Dump, whose 17.7 MB set is the working set, loses delivery linearly ($100\%$ to $20\%$), and its first-query latency jumps from 98 \textmu s to the cold baseline as soon as delivery falls below $100\%$: the cache dump degrades all at once rather than gracefully. Tail-Mixed's 1.8 MB working set is below the measurable pressure floor, so its robustness on this axis follows from set size and is not measured.
 
@@ -554,19 +554,19 @@ We test the headline conclusions along six axes, each on its own batch, so compa
 
 \begin{table*}[htbp]
 \centering
-\caption{Cross-seed validation of warm-process improvements. Single-workload values are main-batch point estimates, cross-seed values are 10-seed bootstrap means with $95\%$ CIs, and verdicts follow Section~\ref{sec:methodology} with the fraction of seeds agreeing in sign. †Tail-Mixed \texttt{Skel+10} is bimodal: about $-70\%$ when the first query is a not-found probe and about $-31\%$ when it is a hit.}
+\caption{Cross-seed validation of warm-process improvements. Single-workload values are main-batch point estimates, cross-seed values are 10-seed bootstrap means with $95\%$ CIs, and verdicts follow Section~\ref{sec:methodology} with the fraction of seeds agreeing in sign. †Tail-Mixed \texttt{Skel+10} is bimodal: about $-71\%$ when the first query is a not-found probe and about $-32\%$ when it is a hit.}
 \begin{tabular}{l c c c}
 \toprule
 \textbf{Cell} & \textbf{Single workload} & \textbf{Cross-seed mean} & \textbf{Verdict} \\
 \midrule
-Tail-Mixed \texttt{Skel+10} & $-76\%$\textsuperscript{$\dagger$} & $-55\%$ $[-67, -43]$ & \textit{robust, bimodal} \\
-Tail-Mixed \texttt{Skel} & $-32\%$ & $-36\%$ $[-39, -33]$ & \textit{robust} (10/10) \\
-Scattered-Zipf-100K \texttt{Skel+10} & $-9\%$ & $-36\%$ $[-50, -23]$ & \textit{robust} (10/10) \\
-Scattered-Zipf-100K \texttt{Skel} & $-13\%$ & $-25\%$ $[-29, -20]$ & \textit{robust} (10/10) \\
-Uniform-100K \texttt{Skel} & $-32\%$ & $-25\%$ $[-32, -16]$ & \textit{robust} (9/10) \\
-Uniform-100K \texttt{Skel+10} & $-31\%$ & $-25\%$ $[-32, -15]$ & \textit{robust} (9/10) \\
-Scattered-Zipf-100K \texttt{Skel-5} & $-13\%$ & $-5\%$ $[-16, +4]$ & \textit{tie} (6/10) \\
-Uniform-100K \texttt{Skel-5} & $-34\%$ & $-1\%$ $[-12, +7]$ & \textit{directional} (8/10 regress) \\
+Tail-Mixed \texttt{Skel+10} & $-75\%$\textsuperscript{$\dagger$} & $-55\%$ $[-68, -43]$ & \textit{robust, bimodal} \\
+Tail-Mixed \texttt{Skel} & $-32\%$ & $-37\%$ $[-39, -34]$ & \textit{robust} (10/10) \\
+Scattered-Zipf-100K \texttt{Skel+10} & $-9\%$ & $-38\%$ $[-52, -24]$ & \textit{robust} (10/10) \\
+Scattered-Zipf-100K \texttt{Skel} & $-11\%$ & $-27\%$ $[-31, -23]$ & \textit{robust} (10/10) \\
+Uniform-100K \texttt{Skel} & $-32\%$ & $-26\%$ $[-33, -16]$ & \textit{robust} (9/10) \\
+Uniform-100K \texttt{Skel+10} & $-30\%$ & $-26\%$ $[-32, -17]$ & \textit{robust} (9/10) \\
+Scattered-Zipf-100K \texttt{Skel-5} & $-13\%$ & $-5\%$ $[-15, +5]$ & \textit{tie} (6/10) \\
+Uniform-100K \texttt{Skel-5} & $-35\%$ & $-2\%$ $[-12, +6]$ & \textit{directional} (8/10 regress) \\
 \bottomrule
 \end{tabular}
 \label{tab:seeds}
